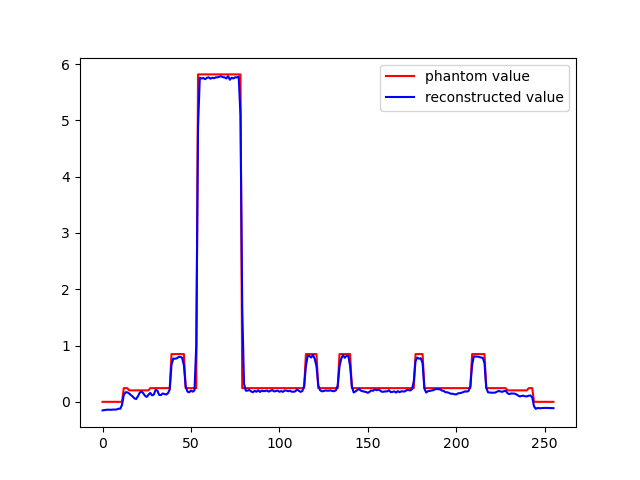
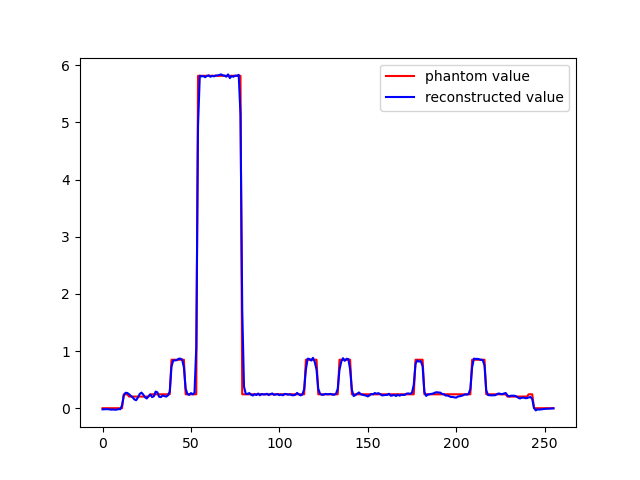
fix ramp_filter

diff --git a/gg2_python/ct_test_example.py b/gg2_python/ct_test_example.py
@@ -25,7 +25,7 @@ def test_1():
 	# use fake source with only one frequency instead of real source
 	s = fake_source(source.mev, 0.07, method='ideal')
 	# The multiply by two here gives almost perfect reconstruction, but the reason behind which is unkown
-	y = scan_and_reconstruct(s, material, p, 0.01, 256)*2
+	y = scan_and_reconstruct(s, material, p, 0.01, 256)
 
 	# save some meaningful results
 	save_draw(y, 'results', 'test_1_image', caxis=[0,max(map(max, y))])
@@ -77,8 +77,8 @@ def test_3():
 	f.close()
 
 # Run the various tests
-# print('Test 1')
-# test_1()
+print('Test 1')
+test_1()
 # print('Test 2')
 # test_2()
 # print('Test 3')

diff --git a/gg2_python/ramp_filter.py b/gg2_python/ramp_filter.py
@@ -37,7 +37,7 @@ def ramp_filter(sinogram, scale, alpha=0.001):
 	ram_lak = np.array(ram_lak)
 
 	# 1D Fourier transform on sinogram in r direction
-	fft_sinogram = np.zeros((angles,m))
+	fft_sinogram = np.empty((angles,m), dtype=complex)
 	for i in range(angles):
 		fft_sinogram[i] = np.fft.fft(sinogram[i], n=m)
 
